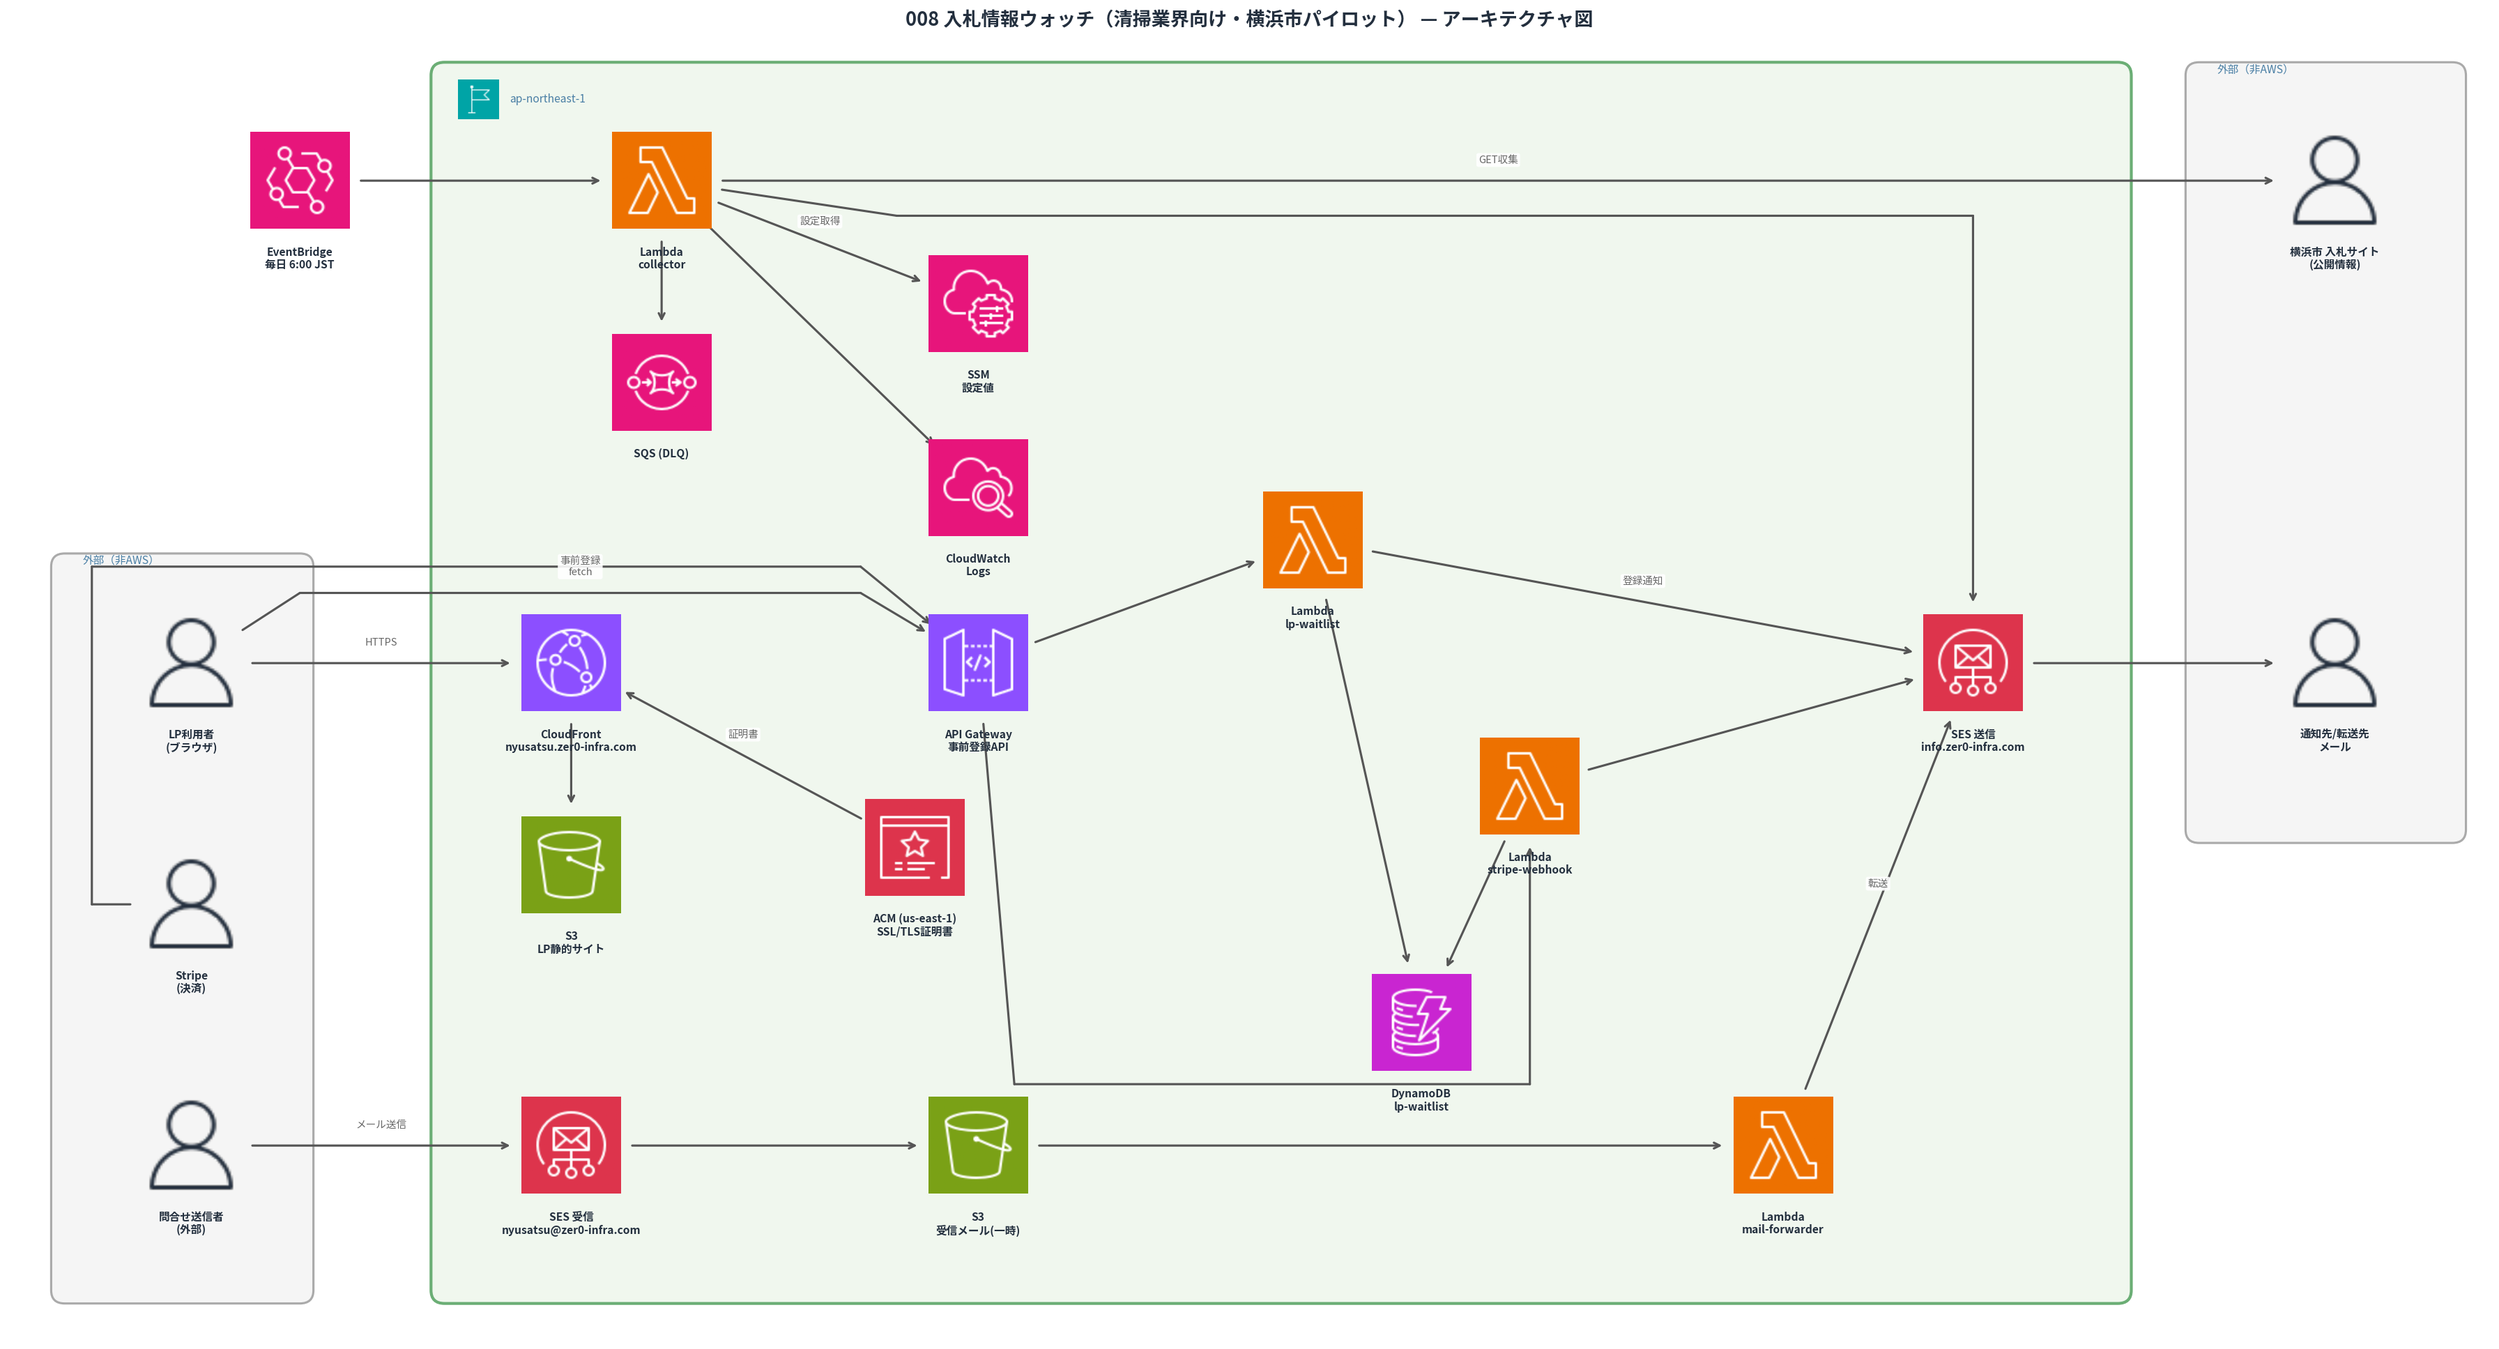
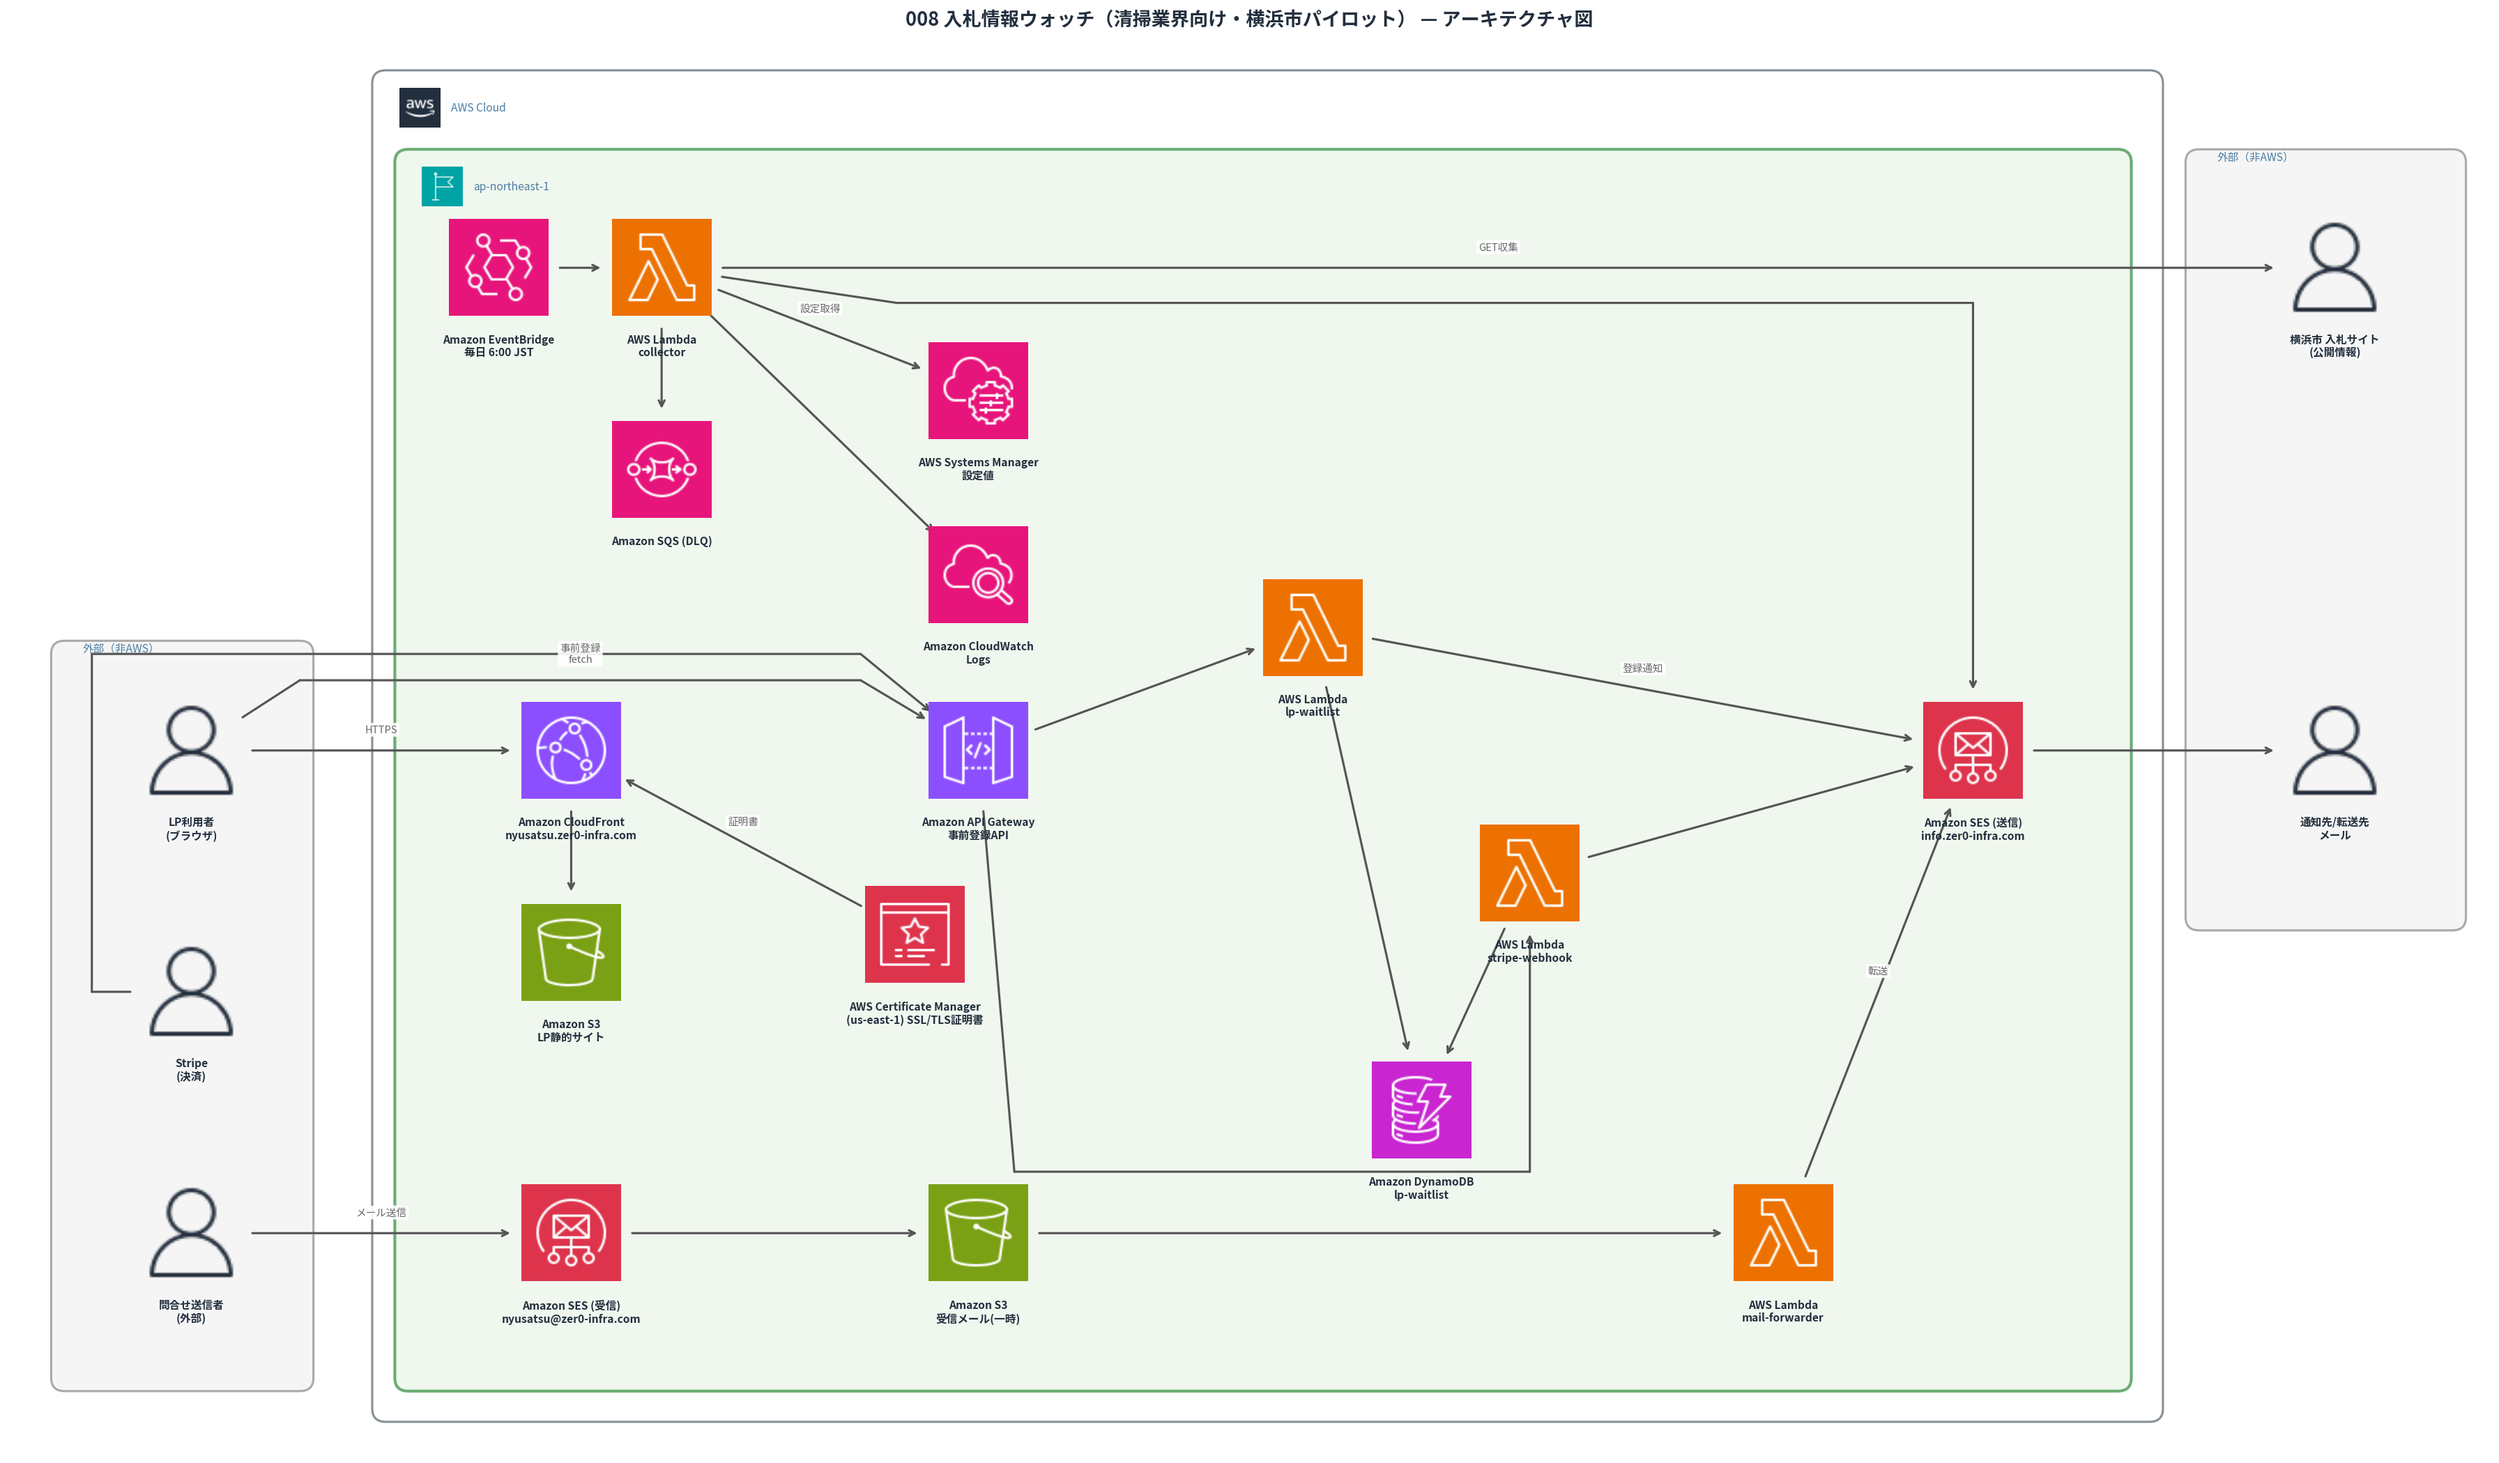
auto-sync: 2026-08-09 13:35

diff --git a/008_nyusatsu-notify-bot/scripts/generate_diagram.py b/008_nyusatsu-notify-bot/scripts/generate_diagram.py
@@ -34,6 +34,7 @@ ICONS = {
     'api_gateway': f'{_SVC}/Arch_Networking-Content-Delivery/64/Arch_Amazon-API-Gateway_64.png',
     'dynamodb':    f'{_SVC}/Arch_Database/64/Arch_Amazon-DynamoDB_64.png',
     'region':      f'{_GRP}/Region_32.png',
+    'aws_cloud_logo': f'{_GRP}/AWS-Cloud-logo_32.png',
 }
 
 _USER_PNG = os.path.join(_BASE, '..', '002_Zenn_Auto_Article_Bot', 'src', 'aws_icons', 'user.png')
@@ -54,44 +55,46 @@ def draw():
     # が存在しない右側の専用縦帯(x=19.5付近)を通って合流させる。
     nodes = [
         # --- レーン1: 収集Bot(既存)  y=12.0 ---
-        {'id': 'eb',      'icon': 'eventbridge', 'label': 'EventBridge\n毎日 6:00 JST',          'x': 2.0,  'y': 12.0},
-        {'id': 'lambda',  'icon': 'lambda',      'label': 'Lambda\ncollector',                   'x': 6.0,  'y': 12.0},
-        {'id': 'dlq',     'icon': 'sqs',         'label': 'SQS (DLQ)',                           'x': 6.0,  'y': 9.7},
-        {'id': 'ssm',     'icon': 'ssm',         'label': 'SSM\n設定値',                          'x': 9.5,  'y': 10.6},
-        {'id': 'cw',      'icon': 'cloudwatch',  'label': 'CloudWatch\nLogs',                    'x': 9.5,  'y': 8.5},
+        # ebはap-northeast-1枠に収まるよう、レーン内の他ノードと3.5以上の間隔を
+        # 保ちつつ枠の左パディング分(区画x=3.3+パディング0.9)右へ寄せてある。
+        {'id': 'eb',      'icon': 'eventbridge', 'label': 'Amazon EventBridge\n毎日 6:00 JST',    'x': 4.2,  'y': 12.0},
+        {'id': 'lambda',  'icon': 'lambda',      'label': 'AWS Lambda\ncollector',                'x': 6.0,  'y': 12.0},
+        {'id': 'dlq',     'icon': 'sqs',         'label': 'Amazon SQS (DLQ)',                     'x': 6.0,  'y': 9.7},
+        {'id': 'ssm',     'icon': 'ssm',         'label': 'AWS Systems Manager\n設定値',           'x': 9.5,  'y': 10.6},
+        {'id': 'cw',      'icon': 'cloudwatch',  'label': 'Amazon CloudWatch\nLogs',              'x': 9.5,  'y': 8.5},
         {'id': 'site',    'icon': 'user',        'label': '横浜市 入札サイト\n(公開情報)',        'x': 24.5, 'y': 12.0},
 
         # --- レーン2: LP事前登録(新規)  y=6.5 ---
         {'id': 'browser', 'icon': 'user',        'label': 'LP利用者\n(ブラウザ)',                 'x': 0.8,  'y': 6.5},
-        {'id': 'cf',      'icon': 'cloudfront',  'label': 'CloudFront\nnyusatsu.zer0-infra.com',  'x': 5.0,  'y': 6.5},
-        {'id': 's3lp',    'icon': 's3',          'label': 'S3\nLP静的サイト',                     'x': 5.0,  'y': 4.2},
-        {'id': 'apigw',   'icon': 'api_gateway', 'label': 'API Gateway\n事前登録API',             'x': 9.5,  'y': 6.5},
+        {'id': 'cf',      'icon': 'cloudfront',  'label': 'Amazon CloudFront\nnyusatsu.zer0-infra.com', 'x': 5.0,  'y': 6.5},
+        {'id': 's3lp',    'icon': 's3',          'label': 'Amazon S3\nLP静的サイト',              'x': 5.0,  'y': 4.2},
+        {'id': 'apigw',   'icon': 'api_gateway', 'label': 'Amazon API Gateway\n事前登録API',      'x': 9.5,  'y': 6.5},
         # lambda_wl/lambda_sw(下記Stripe節)はapigwからの上下2トラックに分岐させ、
         # ddb_wl/ses_outへの経路が互いの垂直線と交差しないよう縦にずらして配置する。
-        {'id': 'lambda_wl','icon': 'lambda',     'label': 'Lambda\nlp-waitlist',                  'x': 13.2, 'y': 7.9},
-        {'id': 'ddb_wl',  'icon': 'dynamodb',    'label': 'DynamoDB\nlp-waitlist',                'x': 14.4, 'y': 2.4},
+        {'id': 'lambda_wl','icon': 'lambda',     'label': 'AWS Lambda\nlp-waitlist',              'x': 13.2, 'y': 7.9},
+        {'id': 'ddb_wl',  'icon': 'dynamodb',    'label': 'Amazon DynamoDB\nlp-waitlist',         'x': 14.4, 'y': 2.4},
         # CloudFront用ACM証明書はAWS仕様によりus-east-1リージョンで発行・管理
         # (スタック: zer0-nyusatsu-lp-cert)。図はap-northeast-1枠内に置くため、
         # 誤解を避けるようラベルにリージョンを明記する。
-        {'id': 'acm',     'icon': 'acm',         'label': 'ACM (us-east-1)\nSSL/TLS証明書',       'x': 8.8,  'y': 4.4},
+        {'id': 'acm',     'icon': 'acm',         'label': 'AWS Certificate Manager\n(us-east-1) SSL/TLS証明書', 'x': 8.8,  'y': 4.4},
 
         # --- レーン3: 問合せメール転送(新規)  y=1.0 ---
         {'id': 'inquirer','icon': 'user',        'label': '問合せ送信者\n(外部)',                 'x': 0.8,  'y': 1.0},
-        {'id': 'ses_in',  'icon': 'ses',         'label': 'SES 受信\nnyusatsu@zer0-infra.com',    'x': 5.0,  'y': 1.0},
-        {'id': 's3mail',  'icon': 's3',          'label': 'S3\n受信メール(一時)',                 'x': 9.5,  'y': 1.0},
+        {'id': 'ses_in',  'icon': 'ses',         'label': 'Amazon SES (受信)\nnyusatsu@zer0-infra.com', 'x': 5.0,  'y': 1.0},
+        {'id': 's3mail',  'icon': 's3',          'label': 'Amazon S3\n受信メール(一時)',          'x': 9.5,  'y': 1.0},
         # lambda_swのddb_wl向け迂回経路(y=1.7)と交差しないよう、mail-forwarderは
         # lambda_sw/ddb_wl列より右側(x=18.4)へ寄せる。
-        {'id': 'lambda_fw','icon': 'lambda',     'label': 'Lambda\nmail-forwarder',               'x': 18.4, 'y': 1.0},
+        {'id': 'lambda_fw','icon': 'lambda',     'label': 'AWS Lambda\nmail-forwarder',           'x': 18.4, 'y': 1.0},
 
         # --- 共有: SES送信・通知先(右端の専用縦帯) ---
-        {'id': 'ses_out', 'icon': 'ses',         'label': 'SES 送信\ninfo.zer0-infra.com',        'x': 20.5, 'y': 6.5},
+        {'id': 'ses_out', 'icon': 'ses',         'label': 'Amazon SES (送信)\ninfo.zer0-infra.com', 'x': 20.5, 'y': 6.5},
         {'id': 'recv',    'icon': 'user',        'label': '通知先/転送先\nメール',                'x': 24.5, 'y': 6.5},
 
         # --- Stripe Webhook突合(v0.19、新規)。既存のapigw/ddb_wl(レーン2)を共有し、
         # stripe自体は左側の外部クラスターにbrowser/inquirerと並べて配置、
         # lambda_swはapigwの下トラックとして、lambda_wl(上トラック)と対称に配置する。 ---
         {'id': 'stripe',    'icon': 'user',   'label': 'Stripe\n(決済)',         'x': 0.8,  'y': 3.75},
-        {'id': 'lambda_sw', 'icon': 'lambda', 'label': 'Lambda\nstripe-webhook', 'x': 15.6, 'y': 5.1},
+        {'id': 'lambda_sw', 'icon': 'lambda', 'label': 'AWS Lambda\nstripe-webhook', 'x': 15.6, 'y': 5.1},
     ]
 
     edges = [
@@ -140,9 +143,21 @@ def draw():
     ]
 
     clusters = [
+        # AWS Cloud全体を示す外枠(ソラコム松下氏のAWS Summit Japan 2025セッション
+        # 「AWS アーキテクチャ作図入門」のチェックリストに準拠。region枠の外側を
+        # 覆うだけの単純な外枠のため、ノード内包判定に基づく自動パディングの対象
+        # 外(region枠確定後の値を直接指定)にしている。
+        {
+            'label': 'AWS Cloud', 'icon': 'aws_cloud_logo',
+            'x': 2.95, 'y': -1.0, 'w': 19.5, 'h': 15.1,
+            'color': '#FFFFFF', 'edgecolor': '#879196',
+            'linestyle': '-', 'linewidth': 1.5,
+        },
         {
             'label': 'ap-northeast-1', 'icon': 'region',
-            'x': 3.6, 'y': -0.65, 'w': 18.5, 'h': 13.85,
+            # 左端をx=3.3に調整(旧値3.6)。ebノードがこの枠に収まるよう
+            # x=4.2へ配置し直したため、パディング0.9(旧ノードでは未収容だった)。
+            'x': 3.3, 'y': -0.65, 'w': 18.8, 'h': 13.85,
             'color': '#F0F7EE', 'edgecolor': '#6BAE75',
             'linestyle': '-', 'linewidth': 2.0,
         },
@@ -178,9 +193,9 @@ def draw():
             if ny - cl['y'] < _PAD_BOT:
                 d = _PAD_BOT - (ny - cl['y']); cl['y'] -= d; cl['h'] += d
 
-    fig, ax = plt.subplots(figsize=(24, 13), dpi=150)
+    fig, ax = plt.subplots(figsize=(24, 14.1), dpi=150)
     ax.set_xlim(-1.2, 26.2)
-    ax.set_ylim(-1.2, 13.6)
+    ax.set_ylim(-1.5, 14.6)
     ax.set_aspect('equal')
     ax.axis('off')
     fig.patch.set_facecolor('white')

diff --git a/008_nyusatsu-notify-bot/docs-public/CHANGELOG.md b/008_nyusatsu-notify-bot/docs-public/CHANGELOG.md
@@ -4,6 +4,13 @@
 
 ## 2026-08-09
 
+### 構成図をAWS公式ベストプラクティスに準拠させる
+
+- ユーザー共有のAWS Summit Japan 2025セッション「AWS アーキテクチャ作図入門」（ソラコム松下氏）のチェックリストを参考に、`scripts/generate_diagram.py`を全面的に見直し
+- サービス名を正式名称に統一（「Lambda」→「AWS Lambda」、「SSM」→「AWS Systems Manager」、「SQS」→「Amazon SQS」、「ACM」→「AWS Certificate Manager」等）。ラベルは2行以内・単語途中で改行しないルールを徹底
+- 図全体を囲む「AWS Cloud」外枠（公式AWS Cloudロゴ付き）を新設し、ap-northeast-1リージョン枠をその内側に配置する2階層構造に変更
+- 併せて、EventBridgeノードがap-northeast-1枠からはみ出して配置されていた既存の座標ズレ（今回の見直しで発覚）も修正
+
 ### 構成図の線の交差を解消
 
 - ユーザーから構成図（`008_architecture.png`）の線が交差して見づらいと指摘を受け、`scripts/generate_diagram.py`のノード座標・経路を全面的に再設計

diff --git a/008_nyusatsu-notify-bot/docs-public/README.md b/008_nyusatsu-notify-bot/docs-public/README.md
@@ -215,6 +215,11 @@ Fableでの調査比較の結果、以下の理由で横浜市を選定した。
 
 ### 2026-08-09
 
+#### 構成図をAWS公式ベストプラクティスに準拠させる
+
+- サービス名を正式名称に統一し、ラベルは2行以内・単語途中で改行しないルールを徹底（「Lambda」→「AWS Lambda」等）
+- 図全体を囲む「AWS Cloud」外枠を新設し、ap-northeast-1リージョン枠をその内側に配置する2階層構造に変更
+
 #### 構成図の線の交差を解消
 
 - 構成図（`008_architecture.png`）でStripe Webhook関連の線が既存の線と複数箇所で交差していた問題を解消
